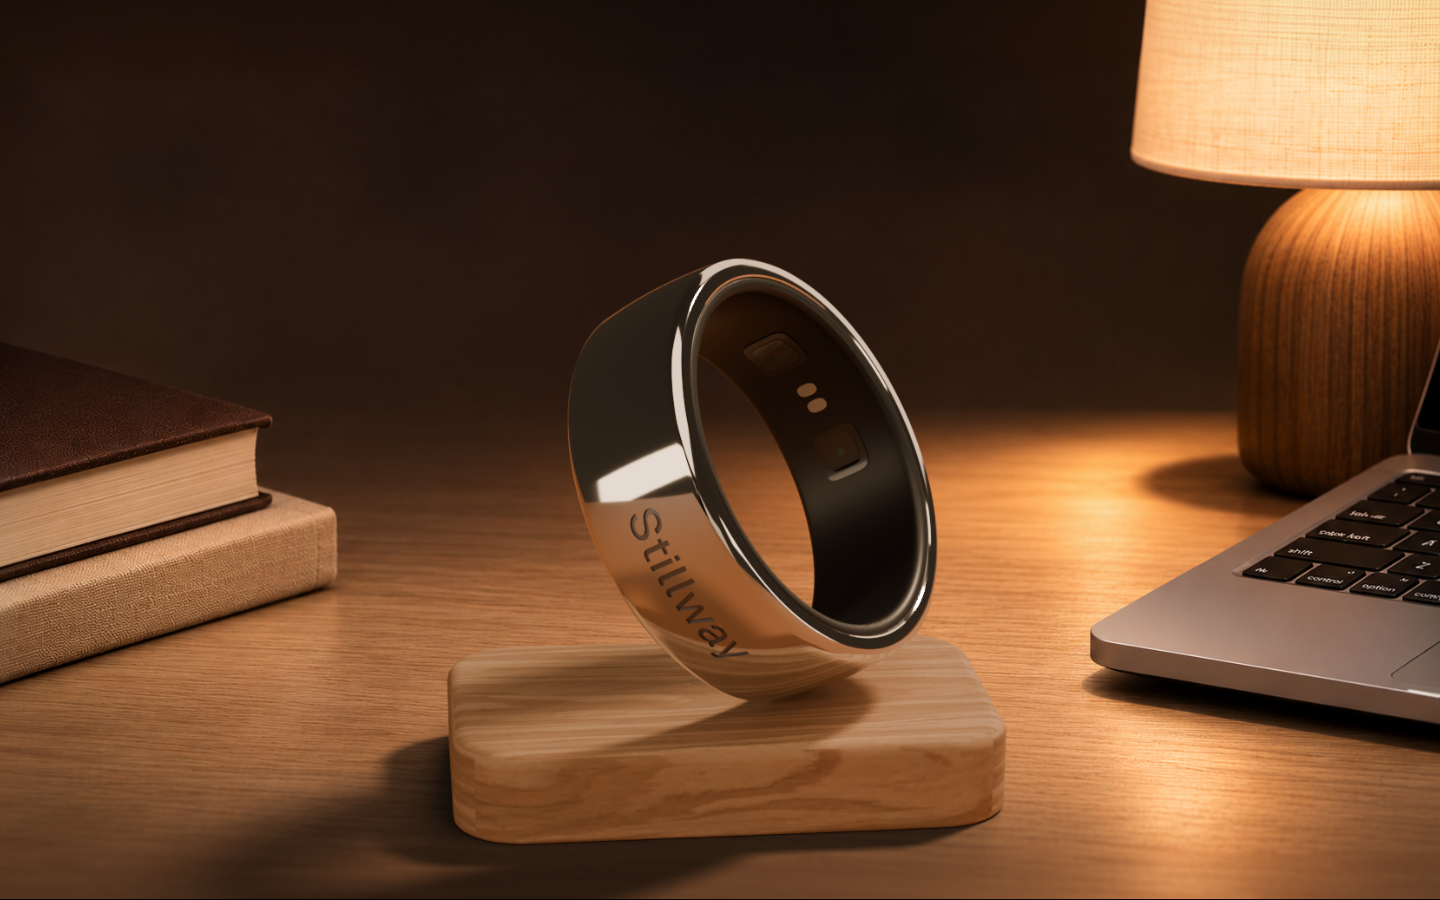
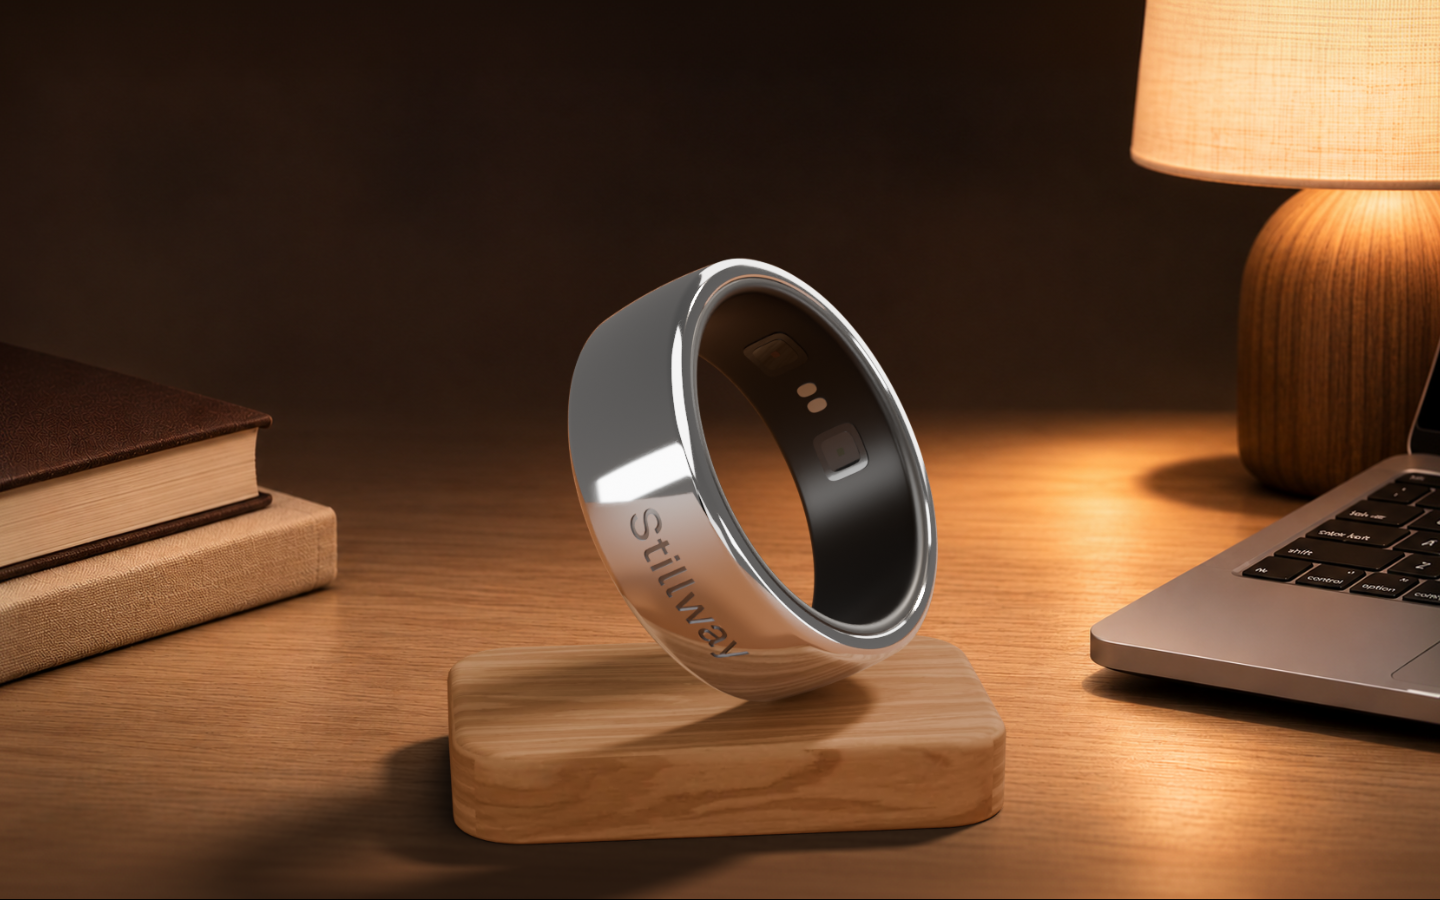
fix(3d): S01 poster ring re-lit neutral bright silver to match live web ring (D-179)

Changed region(s): [[0.375, 0.28, 0.6562, 0.7467]]

diff --git a/design/3d/v2/s01-pedestal-build.py b/design/3d/v2/s01-pedestal-build.py
@@ -519,6 +519,56 @@ def write_pose(S):
         json.dump(data, f, indent=2)
 
 
+
+def poster_silver():
+    """Fallback stills with the ring re-lit bright neutral silver (matches the live web ring, D-179 QA).
+    Oak, desk shadow and pose stay identical: the base render (warm world) is kept everywhere except
+    the ring pixels, which come from a render where glossy rays see the untinted, brighter paper env.
+    Mask = ring-only coverage (pedestal + desk as holdout)."""
+    S = scene_setup()
+    bg = load_px(BG); BH, BW = bg.shape[:2]
+    place_camera(S["cam"], **CAM)
+    base = REN + "/s01-pedestal-hero-rgba.png"
+    render_rgba(base, BW, BH)
+    w = bpy.context.scene.world; nt = w.node_tree
+    env = [n for n in nt.nodes if n.type == 'TEX_ENVIRONMENT'][0]
+    out = [n for n in nt.nodes if n.type == 'OUTPUT_WORLD'][0]
+    warm = [n for n in nt.nodes if n.type == 'BACKGROUND'][0]
+    cool = nt.nodes.new("ShaderNodeBackground"); cool.inputs["Strength"].default_value = float(os.environ.get("SILVER_ENV", "1.1"))
+    cg = nt.nodes.new("ShaderNodeMix"); cg.data_type = 'RGBA'; cg.blend_type = 'MULTIPLY'
+    cg.inputs["Factor"].default_value = 1.0; cg.inputs["B"].default_value = (0.97, 0.99, 1.03, 1)
+    nt.links.new(env.outputs[0], cg.inputs["A"]); nt.links.new(cg.outputs["Result"], cool.inputs[0])
+    lp = nt.nodes.new("ShaderNodeLightPath")
+    mx = nt.nodes.new("ShaderNodeMixShader")
+    nt.links.new(lp.outputs["Is Glossy Ray"], mx.inputs[0])
+    nt.links.new(warm.outputs[0], mx.inputs[1]); nt.links.new(cool.outputs[0], mx.inputs[2])
+    nt.links.new(mx.outputs[0], out.inputs[0])
+    S["key"].data.color = (1.0, 0.86, 0.72)     # key highlight on the ring a little cooler
+    silver = REN + "/s01-pedestal-hero-silver-rgba.png"
+    render_rgba(silver, BW, BH)
+    for o in list(S["ped"].children_recursive) + [S["desk"]]:
+        o.is_holdout = True
+    mask = REN + "/s01-pedestal-hero-ringmask-rgba.png"
+    bpy.context.scene.cycles.samples = 32
+    render_rgba(mask, BW, BH)
+    A, B, M = load_px(base), load_px(silver), load_px(mask)[..., 3:4]
+    rgba = A * (1 - M) + B * M
+    full = comp_arr(rgba, bg)
+    save_px(full, REN + "/s01-pedestal-hero-1818.png")
+    save_px(cover_crop(full, 1440, 900), REN + "/s01-pedestal-review-1440x900.png")
+    save_px(cover_crop(full, 1440, 900), FB + "/fb-s01-pedestal.webp", 'WEBP', 84)
+    save_px(cover_crop(full, 960, 600), FB + "/fb-s01-pedestal-960.webp", 'WEBP', 82)
+    save_px(rgba, FB + "/fb-s01-pedestal-alpha.png")
+    save_px(rgba, FB + "/fb-s01-pedestal-alpha.webp", 'WEBP', 86)
+    for f in (silver, mask):
+        os.remove(f)
+
+
+def comp_arr(fg, bg_arr):
+    a = fg[..., 3:4]
+    return np.concatenate([fg[..., :3] * a + bg_arr[..., :3] * (1 - a), np.ones_like(a)], axis=-1)
+
+
 if __name__ == "__main__":
     argv = sys.argv[sys.argv.index("--") + 1:] if "--" in sys.argv else ["all"]
     mode = argv[0]
@@ -526,6 +576,8 @@ if __name__ == "__main__":
         build()
     if mode in ("renders", "all"):
         renders()
+    if mode == "poster":
+        poster_silver()
     if mode == "quick":
         S = scene_setup(); bpy.context.scene.cycles.samples = 24
         place_camera(S["cam"], **CAM)
